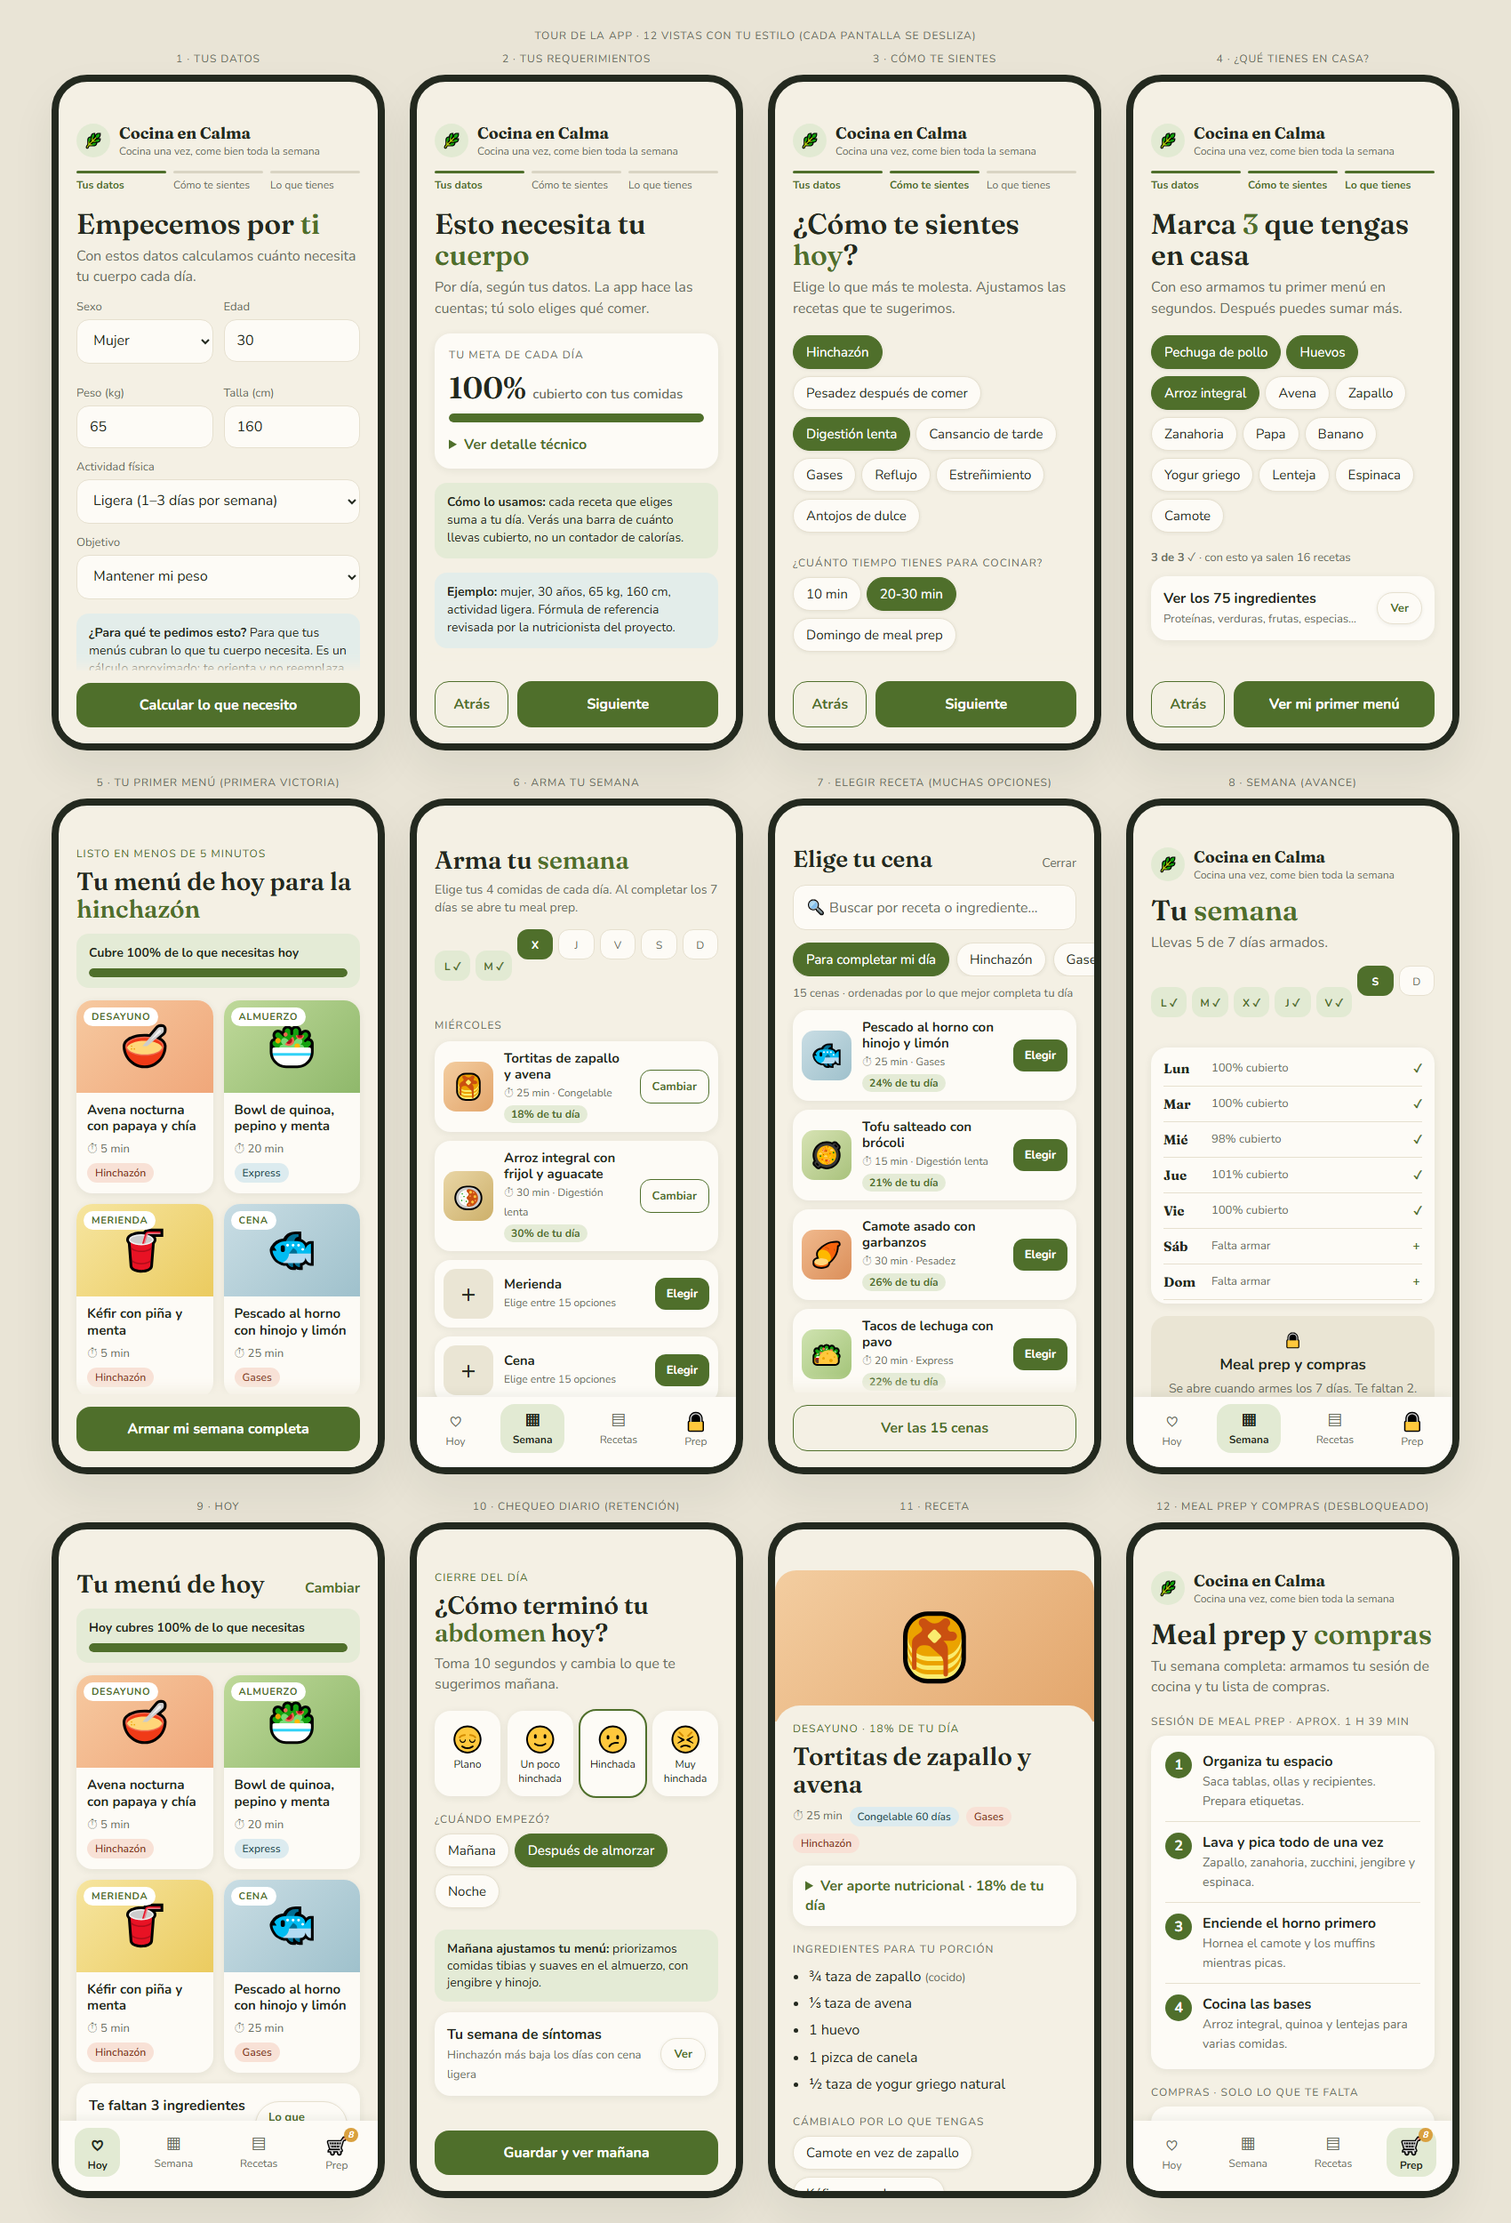
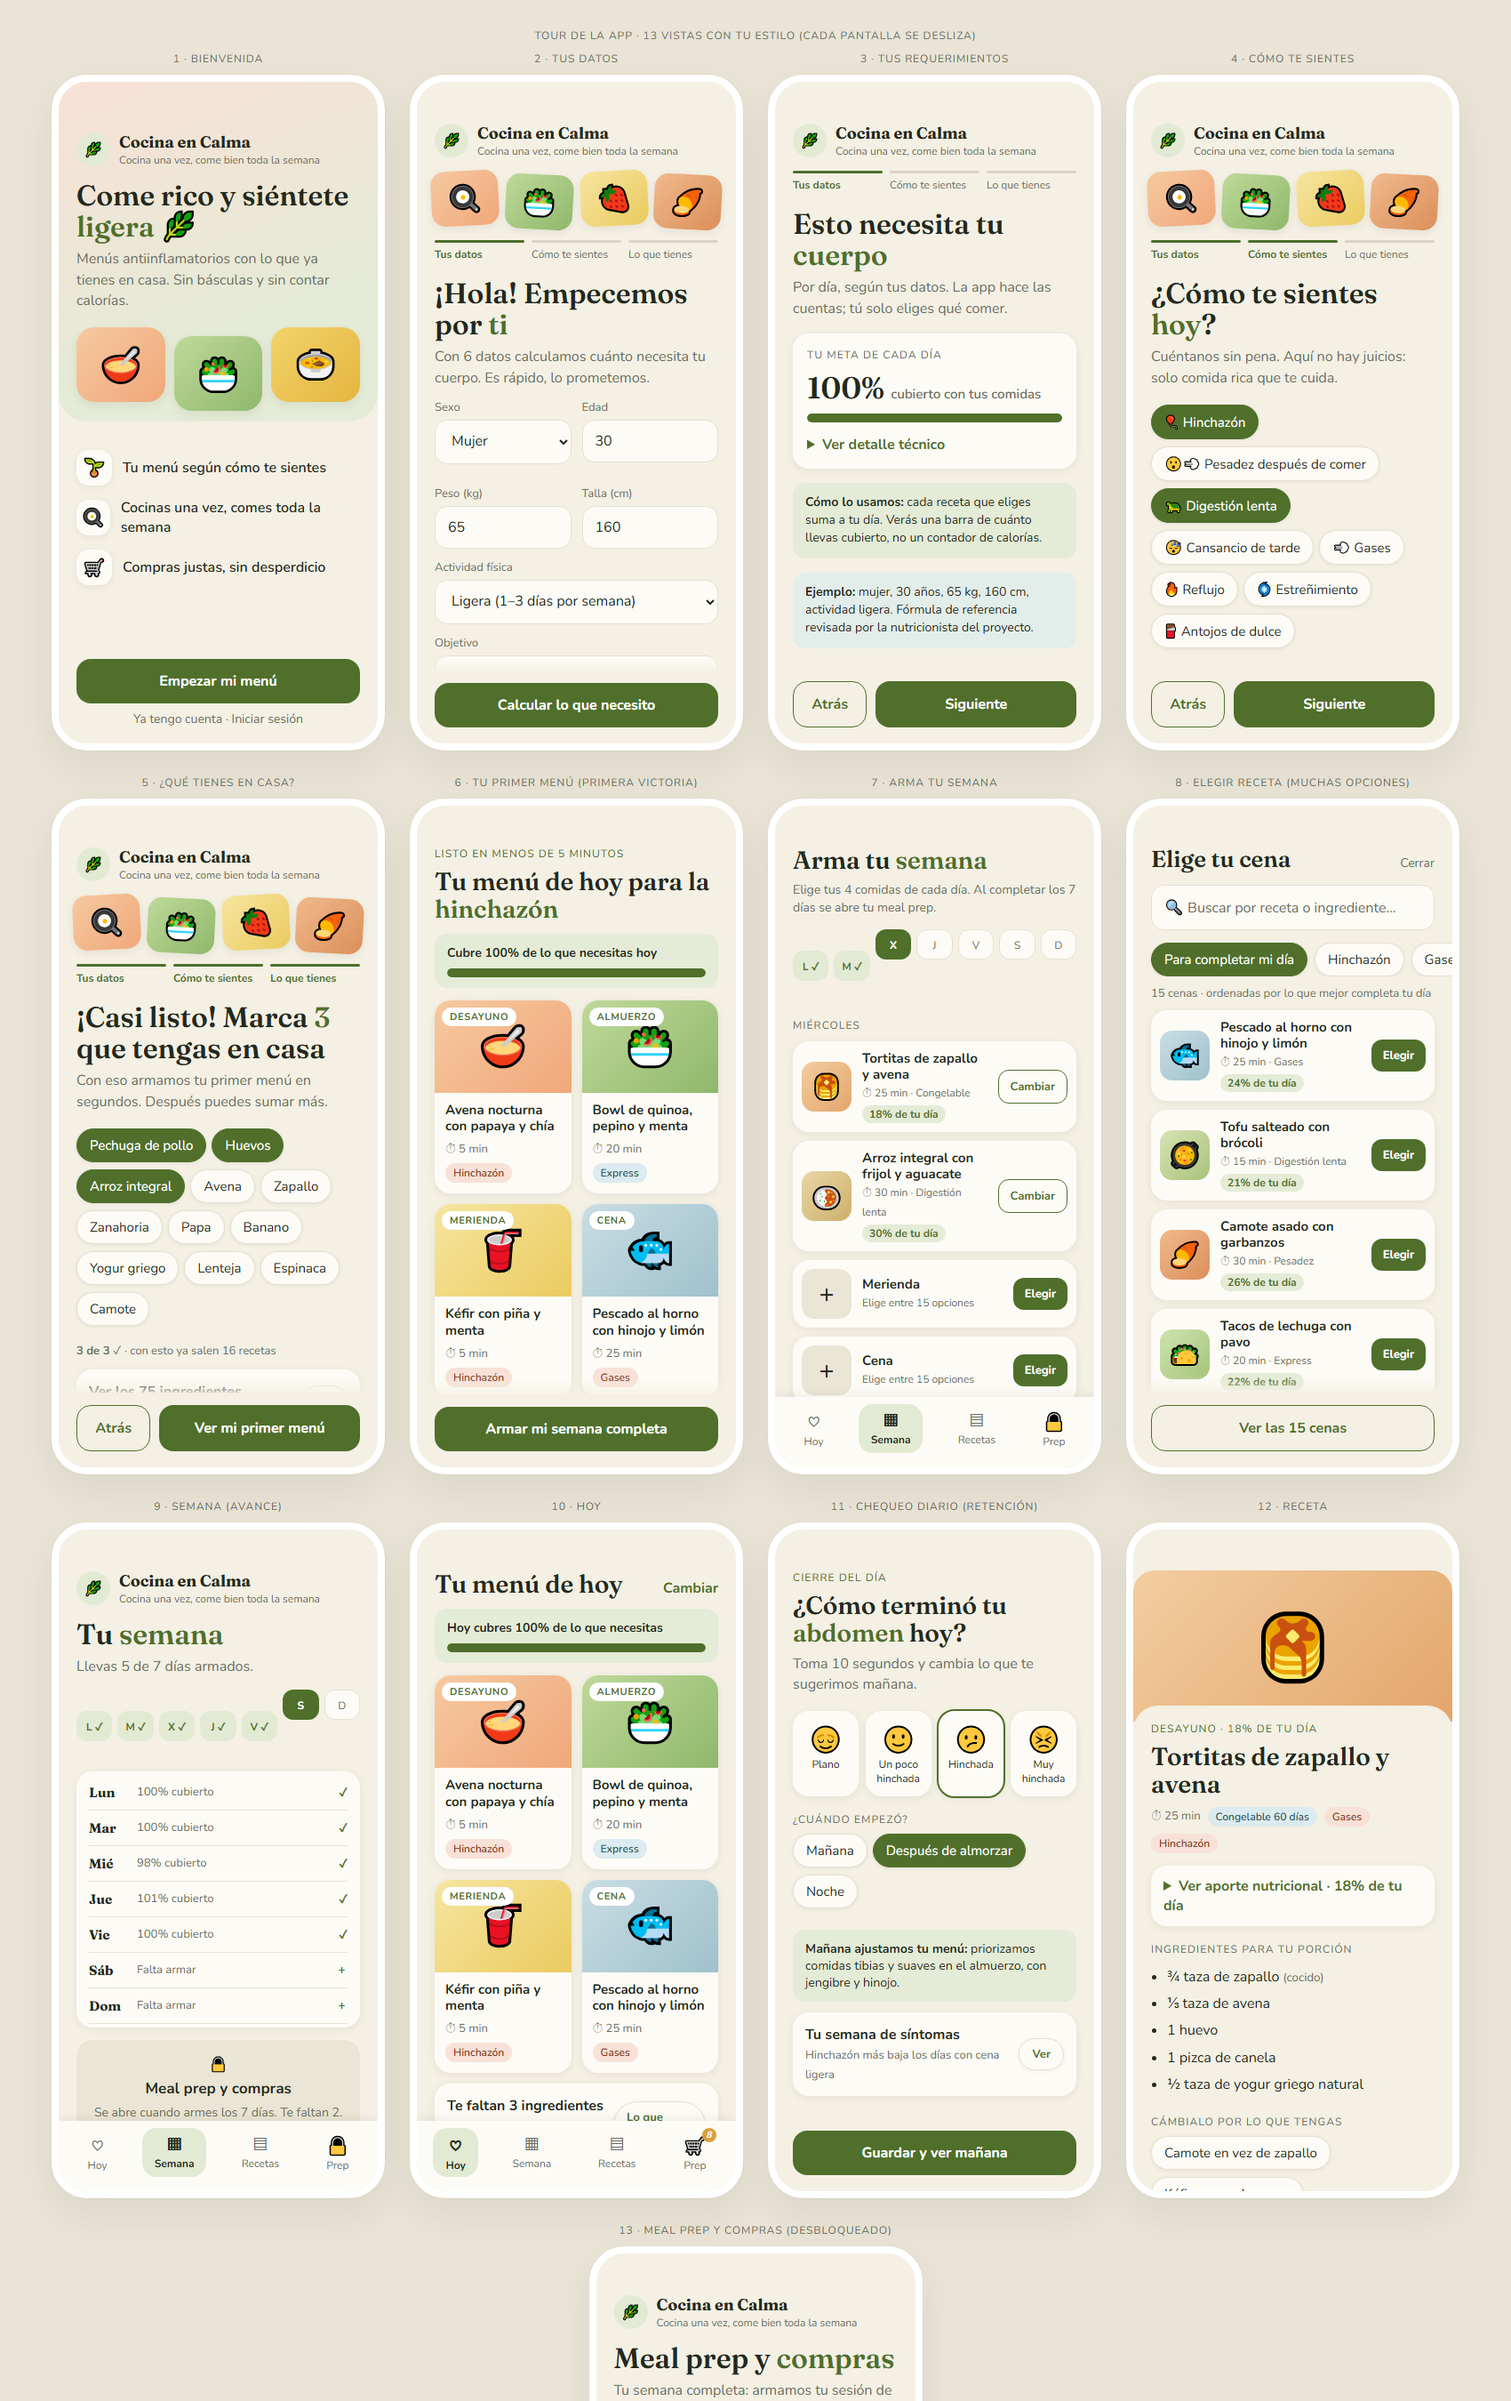
feat: inicio más cálido con bienvenida y fotos en onboarding

diff --git a/vista-previa-app.html b/vista-previa-app.html
@@ -22,10 +22,17 @@ select,.fld{width:100%;background:var(--surface);border:1px solid var(--line);bo
 .sm{flex:none;margin-left:auto;background:var(--olive);color:var(--white);border:0;border-radius:12px;padding:9px 13px;font:700 13px 'Nunito'}
 .sm.o{background:transparent;color:var(--olive);border:1.5px solid var(--olive)}
 .pct{display:inline-block;background:var(--olive-wash);color:var(--olive);border-radius:99px;font-size:12px;font-weight:700;padding:2px 8px;margin-top:4px}
+.phone{border-color:var(--white);box-shadow:0 18px 44px var(--shadow),0 0 0 1px var(--line)}
+.strip{display:flex;gap:8px;margin:2px -4px 16px}.strip div{flex:1;height:62px;border-radius:16px;display:grid;place-items:center;font-size:30px;box-shadow:0 3px 10px var(--shadow)}
+.strip div:nth-child(odd){transform:rotate(-3deg)}.strip div:nth-child(even){transform:rotate(3deg) translateY(4px)}
+.welcome{background:linear-gradient(160deg,var(--peach),var(--olive-wash) 70%);margin:-46px -20px 0;padding:56px 20px 22px;border-radius:0 0 32px 32px}
+.collage{display:grid;grid-template-columns:repeat(3,1fr);gap:10px;margin-top:18px}.collage div{height:84px;border-radius:20px;display:grid;place-items:center;font-size:38px;box-shadow:0 4px 12px var(--shadow)}
+.collage div:nth-child(2){transform:translateY(10px)}
+.perk{display:flex;gap:12px;align-items:center;margin-top:14px;font-weight:600}.perk i{font-style:normal;width:40px;height:40px;border-radius:14px;background:var(--surface);display:grid;place-items:center;font-size:20px;box-shadow:0 2px 8px var(--shadow)}
 .lock{background:var(--sunken);border-radius:var(--r);padding:16px;margin-top:14px;text-align:center}.lock b{display:block;font-size:17px;margin:4px 0}
 </style></head>
 <body>
-<p class="cap">Tour de la app · 12 vistas con tu estilo (cada pantalla se desliza)</p>
+<p class="cap">Tour de la app · 13 vistas con tu estilo (cada pantalla se desliza)</p>
 <div class="row" id="app"></div>
 <script>
 const ING={
@@ -62,12 +69,18 @@ const brand=`<div class="brand"><div class="leaf">🌿</div><div><b>Cocina en Ca
 const prog=n=>`<div class="prog">${['Tus datos','Cómo te sientes','Lo que tienes'].map((t,i)=>`<div class="${i<n?'d':''}"><i></i>${t}</div>`).join('')}</div>`;
 const card=r=>`<div class="card"><div class="ph" style="background:${r[6]}">${r[0]}<span class="tag">${r[2].toUpperCase()}</span></div><div class="b"><h3>${r[1]}</h3><div class="meta">⏱ ${r[3]}</div><div style="margin-top:6px"><span class="pill p-${r[5]}">${r[4]}</span></div></div></div>`;
 const row=(r,btn)=>`<div class="slot"><div class="th" style="background:${r[6]}">${r[0]}</div><div><b>${r[1]}</b><small>⏱ ${r[3]} · ${r[4]}</small><br><span class="pct">${r[7]}% de tu día</span></div><button class="sm ${btn==='Elegir'?'':'o'}">${btn}</button></div>`;
-const ph=(cap,inner,t)=>`<div><p class="cap">${cap}</p><div class="phone"><div class="scroll">${inner}</div>${t||''}</div></div>`;
+let pn=0;const strip=`<div class="strip"><div style="background:linear-gradient(135deg,#F6C9A0,#F0A77A)">🍳</div><div style="background:linear-gradient(135deg,#BFD99A,#8FB86B)">🥗</div><div style="background:linear-gradient(135deg,#F6E5A0,#EBCB5F)">🍓</div><div style="background:linear-gradient(135deg,#F0B98D,#DB8F5A)">🍠</div></div>`;
+const ph=(cap,inner,t)=>`<div><p class="cap">${++pn} · ${cap.replace(/^\d+ · /,'')}</p><div class="phone"><div class="scroll">${inner}</div>${t||''}</div></div>`;
 let n=0;const ingHtml=Object.entries(ING).map(([k,v])=>`<div class="label">${k}</div>`+v.map(x=>{const on=x.endsWith('*');if(on)n++;return `<span class="chip ${on?'on':''}">${x.replace('*','')}</span>`}).join('')).join('');
 const total=Object.values(ING).flat().length;
 const wk=(k)=>`<div class="days">${['L','M','X','J','V','S','D'].map((d,i)=>`<div class="${i<k?'ok':i===k?'now':''}">${d}${i<k?' ✓':''}</div>`).join('')}</div>`;
 const S=[];
-S.push(ph('1 · Tus datos',`${brand}${prog(1)}<h1>Empecemos por <em>ti</em></h1><p class="sub">Con estos datos calculamos cuánto necesita tu cuerpo cada día.</p>
+S.push(ph('Bienvenida',`<div class="welcome"><div class="brand"><div class="leaf">🌿</div><div><b>Cocina en Calma</b><small>Cocina una vez, come bien toda la semana</small></div></div>
+<h1 style="margin-top:14px">Come rico y siéntete <em>ligera</em> 🌿</h1><p class="sub">Menús antiinflamatorios con lo que ya tienes en casa. Sin básculas y sin contar calorías.</p>
+<div class="collage"><div style="background:linear-gradient(135deg,#F6C9A0,#F0A77A)">🥣</div><div style="background:linear-gradient(135deg,#BFD99A,#8FB86B)">🥗</div><div style="background:linear-gradient(135deg,#F2D36B,#E5B53F)">🍲</div></div></div>
+<div style="padding-top:18px"><div class="perk"><i>🌱</i>Tu menú según cómo te sientes</div><div class="perk"><i>🍳</i>Cocinas una vez, comes toda la semana</div><div class="perk"><i>🛒</i>Compras justas, sin desperdicio</div></div><div style="height:100px"></div>`,
+`<div class="cta" style="flex-direction:column;gap:8px"><button class="btn">Empezar mi menú</button><div style="text-align:center;color:var(--ink2);font-size:14px">Ya tengo cuenta · Iniciar sesión</div></div>`));
+S.push(ph('Tus datos',`${brand}${strip}${prog(1)}<h1>¡Hola! Empecemos por <em>ti</em></h1><p class="sub">Con 6 datos calculamos cuánto necesita tu cuerpo. Es rápido, lo prometemos.</p>
 <div class="two"><div><div class="fl2">Sexo</div><select><option>Mujer</option></select></div><div><div class="fl2">Edad</div><div class="fld">30</div></div>
 <div><div class="fl2">Peso (kg)</div><div class="fld">65</div></div><div><div class="fl2">Talla (cm)</div><div class="fld">160</div></div></div>
 <div class="fl2">Actividad física</div><select><option>Ligera (1–3 días por semana)</option></select>
@@ -80,13 +93,13 @@ S.push(ph('2 · Tus requerimientos',`${brand}${prog(1)}<h1>Esto necesita tu <em>
 <div class="info" style="background:var(--olive-wash)"><b>Cómo lo usamos:</b> cada receta que eliges suma a tu día. Verás una barra de cuánto llevas cubierto, no un contador de calorías.</div>
 <div class="info"><b>Ejemplo:</b> mujer, 30 años, 65 kg, 160 cm, actividad ligera. Fórmula de referencia revisada por la nutricionista del proyecto.</div><div style="height:90px"></div>`,
 `<div class="cta"><button class="btn2" style="width:34%">Atrás</button><button class="btn">Siguiente</button></div>`));
-S.push(ph('3 · Cómo te sientes',`${brand}${prog(2)}<h1>¿Cómo te sientes <em>hoy</em>?</h1><p class="sub">Elige lo que más te molesta. Ajustamos las recetas que te sugerimos.</p>
-<div style="margin-top:18px"><span class="chip on">Hinchazón</span><span class="chip">Pesadez después de comer</span><span class="chip on">Digestión lenta</span><span class="chip">Cansancio de tarde</span><span class="chip">Gases</span><span class="chip">Reflujo</span><span class="chip">Estreñimiento</span><span class="chip">Antojos de dulce</span></div>
+S.push(ph('3 · Cómo te sientes',`${brand}${strip}${prog(2)}<h1>¿Cómo te sientes <em>hoy</em>?</h1><p class="sub">Cuéntanos sin pena. Aquí no hay juicios: solo comida rica que te cuida.</p>
+<div style="margin-top:18px"><span class="chip on">🎈 Hinchazón</span><span class="chip">😮💨 Pesadez después de comer</span><span class="chip on">🐢 Digestión lenta</span><span class="chip">😴 Cansancio de tarde</span><span class="chip">💨 Gases</span><span class="chip">🔥 Reflujo</span><span class="chip">🌀 Estreñimiento</span><span class="chip">🍫 Antojos de dulce</span></div>
 <div class="label">¿Cuánto tiempo tienes para cocinar?</div><span class="chip">10 min</span><span class="chip on">20-30 min</span><span class="chip">Domingo de meal prep</span>
 <div class="label">¿Para cuántas personas?</div><span class="chip on">Solo yo</span><span class="chip">2</span><span class="chip">3-4</span>
 <div class="info"><b>Sin básculas.</b> Usamos tazas, puños y unidades. Orientación general: no reemplaza a tu médico.</div><div style="height:90px"></div>`,
 `<div class="cta"><button class="btn2" style="width:34%">Atrás</button><button class="btn">Siguiente</button></div>`));
-S.push(ph('4 · ¿Qué tienes en casa?',`${brand}${prog(3)}<h1>Marca <em>3</em> que tengas en casa</h1><p class="sub">Con eso armamos tu primer menú en segundos. Después puedes sumar más.</p>
+S.push(ph('4 · ¿Qué tienes en casa?',`${brand}${strip}${prog(3)}<h1>¡Casi listo! Marca <em>3</em> que tengas en casa</h1><p class="sub">Con eso armamos tu primer menú en segundos. Después puedes sumar más.</p>
 <div style="margin-top:18px"><span class="chip on">Pechuga de pollo</span><span class="chip on">Huevos</span><span class="chip on">Arroz integral</span><span class="chip">Avena</span><span class="chip">Zapallo</span><span class="chip">Zanahoria</span><span class="chip">Papa</span><span class="chip">Banano</span><span class="chip">Yogur griego</span><span class="chip">Lenteja</span><span class="chip">Espinaca</span><span class="chip">Camote</span></div>
 <div class="cnt"><b>3 de 3</b> ✓ · con esto ya salen 16 recetas</div>
 <div class="act"><div><b>Ver los ${total} ingredientes</b><span>Proteínas, verduras, frutas, especias…</span></div><span class="chip" style="margin:0;color:var(--olive);font-weight:700">Ver</span></div><div style="height:90px"></div>`,

diff --git a/ESTADO.md b/ESTADO.md
@@ -51,6 +51,7 @@ Big Idea: "Desinflama tu abdomen y recupera tu ropa favorita sin volver a pesar 
 - Catálogo amplio: el usuario ELIGE entre muchas recetas por comida (objetivo ≥20 opciones por tipo de comida), con filtros por síntoma, tiempo, "con lo que tengo".
 - BANCO DE RECETAS: datos/recetas.json v0.1 (60 recetas: 15 por tipo de comida, generadas por IA con base antiinflamatoria del estudio). Valores nutricionales ESTIMADOS, pendientes de validación de la nutricionista; objetivo ≥20 por tipo en la siguiente ronda. Fuente única para la app.
 - AJUSTES DE FIDELIDAD AL ESTUDIO (2026-10-31, aprobados): primera victoria <5 min (3 ingredientes → menú de hoy de muestra gratis); kcal/macros en segundo plano (barra de cobertura + detalle técnico desplegable); módulo Menús Express 10 min en Hoy; chequeo diario de síntomas que ajusta el menú de mañana (bucle de retención). Regla del usuario: NO alejarse del estudio.
+- INICIO MÁS CÁLIDO (2026-10-31): el usuario sintió el inicio sombrío/triste → pantalla de bienvenida con gradiente durazno, tiras de fotos de comida en cada paso del onboarding, copy cercano ("¡Hola!", "sin pena, sin juicios"), emojis en síntomas, marco de teléfono claro. Titular de bienvenida suave ("Come rico y siéntete ligera"), sin promesa médica.
 - El usuario arma su semana completa (7 días × 4 comidas). Meal prep y compras se DESBLOQUEAN solo cuando los 7 días están armados.
 
 ## Gamificación y retención (se documenta en Sesión 4)
